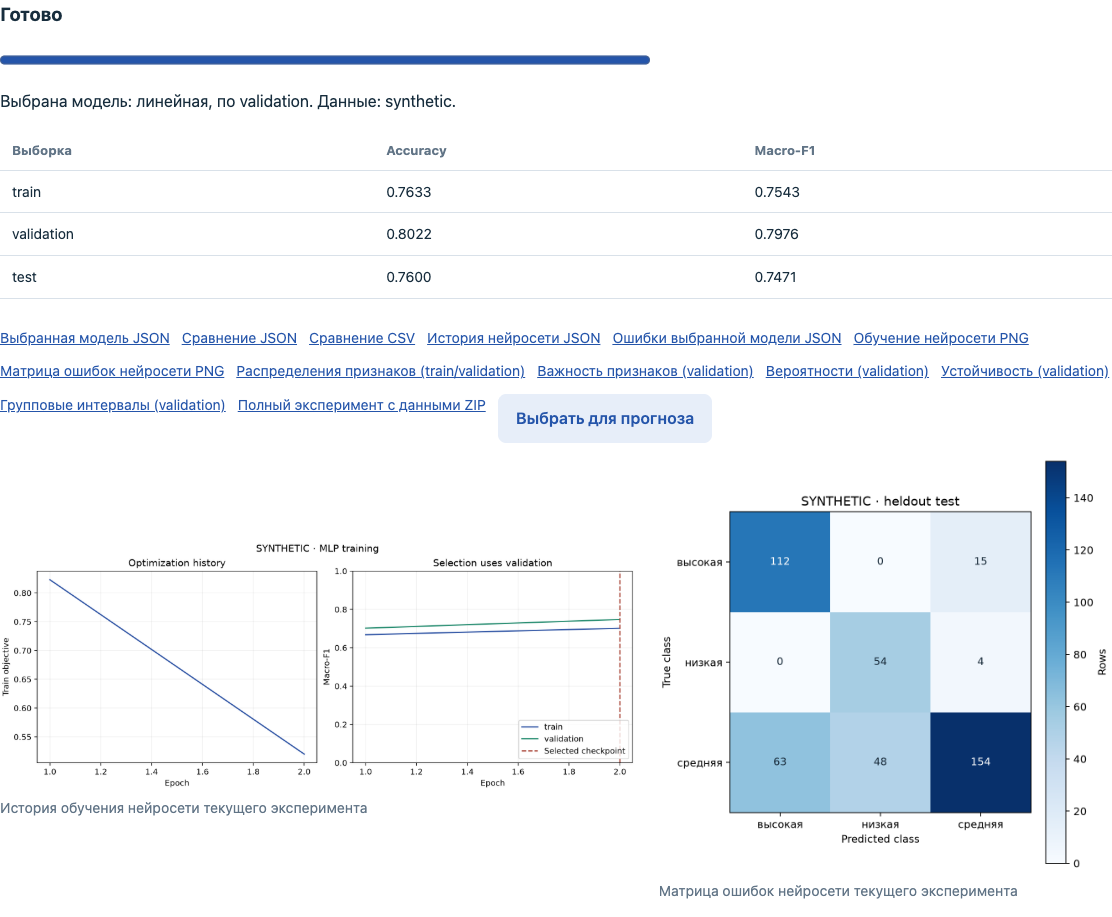
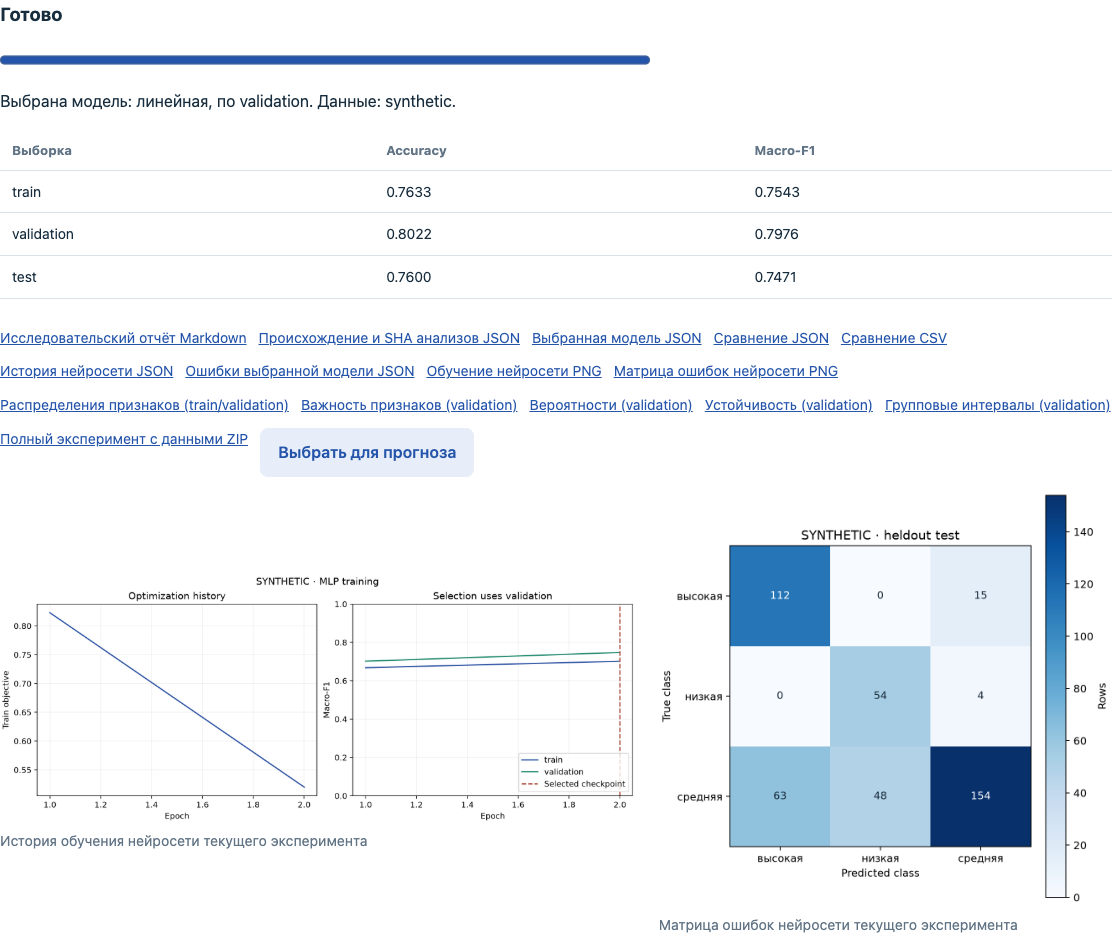
Собирать проверенный исследовательский отчёт из результатов GUI-эксперимента

diff --git a/university_analytics/web/static/app.js b/university_analytics/web/static/app.js
@@ -103,6 +103,7 @@ async function pollJob(id) {
       if (job.state === "failed") throw new Error(job.error);
       const label = {linear: "линейная", dummy: "константная", neural: "нейросеть"}[job.result.selected_model] || job.result.selected_model;
       jobMessage.textContent = `Выбрана модель: ${label}, по validation. Данные: ${job.result.data_origin}.`;
+      if (job.result.research_status === "partial") jobMessage.textContent += " Некоторые анализы недоступны; причины сохранены в отчёте.";
       await showArtifacts(id);
       await refreshJobs();
       const parts = ["train", "validation", "test"];

diff --git a/university_analytics/research_report.py b/university_analytics/research_report.py
@@ -18,7 +18,26 @@ def markdown_text(value):
     return escape(str(value)).replace("\\", "\\\\").replace("|", "\\|").replace("`", "\\`").replace("[", "\\[").replace("]", "\\]").replace("\n", " ").replace("\r", " ")
 
 
-def run_research_report(splits, experiment, destination):
+def existing_analysis(source, name, provenance, destination):
+    path = Path(source)/name/"analysis.json"
+    raw = path.read_bytes()
+    if len(raw) > 8*1024*1024:
+        raise DatasetError("Сохранённый анализ превышает размер пакета.")
+    try:
+        report = json.loads(raw)
+    except (ValueError, UnicodeDecodeError, RecursionError) as exc:
+        raise DatasetError("Повреждён сохранённый анализ.") from exc
+    if not isinstance(report, dict) or any(report.get(key) != value for key,value in provenance.items()):
+        raise DatasetError("Сохранённые анализы относятся к другой модели или данным.")
+    if report.get("status") not in {"completed", "unavailable"}:
+        raise DatasetError("В сохранённом анализе отсутствует допустимый статус.")
+    target = destination/name/"analysis.json"
+    target.parent.mkdir()
+    target.write_bytes(raw)
+    return report
+
+
+def run_research_report(splits, experiment, destination, *, existing_analyses=None):
     destination = Path(destination)
     if destination.exists():
         raise DatasetError("Каталог исследовательского пакета уже существует.")
@@ -31,13 +50,19 @@ def run_research_report(splits, experiment, destination):
             ("probabilities",run_probability_analysis),("robustness",run_robustness),("uncertainty",run_uncertainty)]
         for name, function in steps:
             try:
-                report = function(splits, experiment, temporary/name)
+                report = (function(splits, experiment, temporary/name) if existing_analyses is None
+                    else existing_analysis(existing_analyses, name, provenance, temporary))
             except DatasetError as exc:
+                if existing_analyses is not None:
+                    raise
                 analyses[name] = {"status":"unavailable", "reason":str(exc)}
                 continue
             if any(report.get(key) != value for key,value in provenance.items()):
                 raise DatasetError("Анализы относятся к разным данным или моделям; пакет не сохранён.")
-            analyses[name] = {"status":"completed", "file":f"{name}/analysis.json", "report":report}
+            if report.get("status") == "unavailable":
+                analyses[name] = {"status":"unavailable", "file":f"{name}/analysis.json", "reason":report.get("reason", "Анализ неприменим.")}
+            else:
+                analyses[name] = {"status":"completed", "file":f"{name}/analysis.json", "report":report}
         lines = ["# Диагностика сохранённой модели", "",
             f"Происхождение: {markdown_text(provenance['data_origin'])}. Назначение: {markdown_text(provenance['intended_use'])}.",
             "Симуляционные результаты не оценивают реальных сотрудников. Test не используется для настройки анализов.",
@@ -66,6 +91,7 @@ def run_research_report(splits, experiment, destination):
             lines += ["", markdown_text(report["limitation"]), "", f"Полный результат: [{name}/analysis.json]({name}/analysis.json).", ""]
         (temporary/"research.md").write_text("\n".join(lines)+"\n", encoding="utf-8")
         summary = {**provenance, "schema_version":1,
+            "analysis_source":"recomputed" if existing_analyses is None else "existing_snapshot",
             "status":"completed" if all(item["status"]=="completed" for item in analyses.values()) else "partial",
             "analyses":{name:{key:value for key,value in item.items() if key!="report"} for name,item in analyses.items()}}
         summary["files"] = {str(path.relative_to(temporary)):hashlib.sha256(path.read_bytes()).hexdigest() for path in sorted(temporary.rglob("*")) if path.is_file()}

diff --git a/university_analytics/job_artifacts.py b/university_analytics/job_artifacts.py
@@ -11,7 +11,7 @@ class JobNotReady(RuntimeError):
     pass
 
 
-ARTIFACT_LABELS = {"model.json": "Выбранная модель JSON", "comparison.json": "Сравнение JSON",
+ARTIFACT_LABELS = {"research.md": "Исследовательский отчёт Markdown", "research-manifest.json": "Происхождение и SHA анализов JSON", "model.json": "Выбранная модель JSON", "comparison.json": "Сравнение JSON",
     "comparison.csv": "Сравнение CSV", "history.json": "История нейросети JSON",
     "diagnostics.json": "Ошибки выбранной модели JSON", "training.png": "Обучение нейросети PNG",
     "neural-confusion.png": "Матрица ошибок нейросети PNG", "distribution.json": "Распределения признаков (train/validation)", "importance.json": "Важность признаков (validation)", "probabilities.json": "Вероятности (validation)", "robustness.json": "Устойчивость (validation)", "uncertainty.json": "Групповые интервалы (validation)", "experiment.zip": "Полный эксперимент с данными ZIP"}
@@ -29,7 +29,7 @@ def artifact_path(manager, job_id, owner, name):
     family = state["result"]["selected_family"]
     if family not in {"baseline", "neural"}:
         raise JobNotFound
-    mapping = {"model.json": f"{family}/model.json", "comparison.json": "comparison/comparison.json",
+    mapping = {"research.md": "research/research.md", "research-manifest.json": "research/manifest.json", "model.json": f"{family}/model.json", "comparison.json": "comparison/comparison.json",
         "comparison.csv": "comparison/comparison.csv", "history.json": "neural/training.json",
         "diagnostics.json": "diagnostics-selected/diagnostics.json" if family == "baseline" else "diagnostics-neural/diagnostics.json",
         "distribution.json": "analysis/distribution/analysis.json", "importance.json": "analysis/importance/analysis.json", "probabilities.json": "analysis/probabilities/analysis.json", "robustness.json": "analysis/robustness/analysis.json", "uncertainty.json": "analysis/uncertainty/analysis.json",
@@ -45,7 +45,7 @@ def artifact_path(manager, job_id, owner, name):
 def experiment_archive(manager, job_id, owner):
     directory, state = completed_job(manager, job_id, owner)
     files = [directory/"input.csv", directory/"config.json"]
-    for folder in ["splits", "baseline", "neural", "comparison", "diagnostics-neural", "diagnostics-selected", "figures", "analysis"]:
+    for folder in ["splits", "baseline", "neural", "comparison", "diagnostics-neural", "diagnostics-selected", "figures", "analysis", "research"]:
         files += sorted((directory/folder).rglob("*"))
     output, hashes = io.BytesIO(), {}
     with ZipFile(output, "w", compression=ZIP_DEFLATED) as archive:

diff --git a/tests/test_research_report.py b/tests/test_research_report.py
@@ -29,3 +29,23 @@ class ResearchPackageTests(unittest.TestCase):
                 with self.assertRaises(DatasetError): run_research_report("splits","model",target)
             self.assertFalse(target.exists())
             self.assertEqual(list(Path(folder).iterdir()),[])
+
+    def test_existing_snapshot_is_copied_exactly_without_recomputation(self):
+        import json
+        provenance={"partition":"validation","rows":2,"source_sha256":"a"*64,"split_manifest_sha256":"b"*64,"model_sha256":"c"*64,"data_origin":"synthetic","intended_use":"development_demo_only"}
+        with tempfile.TemporaryDirectory() as folder:
+            root=Path(folder);source=root/'analyses'
+            for name in ['distribution','importance','probabilities','robustness','uncertainty']:
+                path=source/name/'analysis.json';path.parent.mkdir(parents=True)
+                path.write_text(json.dumps({**provenance,'status':'unavailable','reason':'Недостаточно данных <tag>'}))
+            with patch('university_analytics.research_report.validation_context',return_value=(SimpleNamespace(rows=[1,2]),None,None,provenance)), patch('university_analytics.research_report.run_distribution_shift') as calculate:
+                result=run_research_report('splits','model',root/'package',existing_analyses=source)
+                calculate.assert_not_called()
+            self.assertEqual(result['analysis_source'],'existing_snapshot');self.assertEqual(result['status'],'partial')
+            self.assertEqual((root/'package/uncertainty/analysis.json').read_bytes(),(source/'uncertainty/analysis.json').read_bytes())
+            self.assertNotIn('<tag>',(root/'package/research.md').read_text())
+            bad=json.loads((source/'distribution/analysis.json').read_text());bad['model_sha256']='different'
+            (source/'distribution/analysis.json').write_text(json.dumps(bad))
+            with patch('university_analytics.research_report.validation_context',return_value=(SimpleNamespace(rows=[1,2]),None,None,provenance)):
+                with self.assertRaises(DatasetError):run_research_report('splits','model',root/'invalid',existing_analyses=source)
+            self.assertFalse((root/'invalid').exists())

diff --git a/scripts/verify_browser.py b/scripts/verify_browser.py
@@ -85,6 +85,10 @@ def verify(app_python, output):
                     state=context.request.get(url+'/api/jobs/'+job_id).json()
                     assert state['state']=='completed' and state['result']['intended_use']=='development_demo_only'
                     assert len(state['result']['analysis_status'])==5;checks.append('five_validation_analyses')
+                    with page.expect_download() as result:page.get_by_role('link',name='Исследовательский отчёт Markdown',exact=True).click()
+                    markdown=target/'research.md';result.value.save_as(markdown)
+                    assert 'Диагностика сохранённой модели' in markdown.read_text()
+                    checks.append('research_markdown_download')
                     shot('trained-desktop.png','#training-result')
                     with page.expect_download() as result:page.get_by_role('link',name='Полный эксперимент с данными ZIP',exact=True).click()
                     archive=target/'experiment.zip';result.value.save_as(archive)
@@ -92,6 +96,7 @@ def verify(app_python, output):
                         hashes=json.loads(bundle.read('SHA256SUMS.json'))
                         assert all(hashlib.sha256(bundle.read(name)).hexdigest()==value for name,value in hashes.items())
                         assert bundle.read('input.csv')==payload and 'status.json' not in bundle.namelist()
+                        assert bundle.read('analysis/uncertainty/analysis.json')==bundle.read('research/uncertainty/analysis.json')
                     checks.append('downloaded_archive_hashes_and_source')
                     page.get_by_role('button',name='Выбрать для прогноза',exact=True).click()
                     expect(page.locator('#experiment')).to_have_value('job:'+job_id)

diff --git a/tests/test_jobs.py b/tests/test_jobs.py
@@ -44,6 +44,12 @@ class TrainingJobTests(unittest.TestCase):
             self.assertEqual(analysis.json["partition"],"validation")
             self.assertEqual(analysis.json["status"],"completed")
             analysis.close()
+            markdown = client.get("/api/jobs/"+job_id+"/download/research.md")
+            self.assertIn("Диагностика сохранённой модели", markdown.data.decode());markdown.close()
+            manifest = client.get("/api/jobs/"+job_id+"/download/research-manifest.json")
+            self.assertEqual(manifest.json["analysis_source"], "existing_snapshot")
+            self.assertEqual(manifest.json["model_sha256"], analysis.json["model_sha256"])
+            manifest.close()
             model = client.get("/api/jobs/"+job_id+"/download/model.json")
             self.assertIn("config", json.loads(model.data));model.close()
             archive = client.get("/api/jobs/"+job_id+"/download/experiment.zip")
@@ -52,6 +58,8 @@ class TrainingJobTests(unittest.TestCase):
                 self.assertNotIn("status.json", bundle.namelist())
                 self.assertIn("SHA256SUMS.json", bundle.namelist())
                 self.assertIn("analysis/uncertainty/analysis.json", bundle.namelist())
+                self.assertIn("research/research.md", bundle.namelist())
+                self.assertEqual(bundle.read("analysis/uncertainty/analysis.json"), bundle.read("research/uncertainty/analysis.json"))
             archive.close()
             self.assertEqual(client.get("/api/jobs/"+job_id+"/download/status.json").status_code, 404)
             self.assertEqual(len(client.get("/api/jobs").json["jobs"]), 1)

diff --git a/university_analytics/jobs.py b/university_analytics/jobs.py
@@ -11,6 +11,7 @@ from concurrent.futures import ThreadPoolExecutor
 from pathlib import Path
 from datetime import datetime, timezone
 from .analysis_suite import run_analysis_suite
+from .research_report import run_research_report
 from .baselines import run_baseline_experiment
 from .comparison import run_comparison
 from .data import Dataset, DatasetError, load_dataset
@@ -64,9 +65,11 @@ def run_job(directory, dataset, config, epochs):
         export_plots(directory/"neural", directory/"diagnostics-neural", directory/"figures")
         stage("Анализ validation выбранной модели", 95)
         analyses = run_analysis_suite(directory/"splits", directory/family, directory/"analysis")
+        package = run_research_report(directory/"splits", directory/family, directory/"research",
+            existing_analyses=directory/"analysis")
         state.update(state="completed", stage="Готово", progress=100,
             completed_at=datetime.now(timezone.utc).isoformat(), result={"selected_family": family,
-                "selected_model": selected["model"], "analysis_status": analyses, "metrics": selected["metrics"], "rows": comparison["rows"],
+                "selected_model": selected["model"], "analysis_status": analyses, "research_status": package["status"], "metrics": selected["metrics"], "rows": comparison["rows"],
                 "data_origin": comparison["data_origin"], "intended_use": comparison["intended_use"]})
         write_state(directory, state)
     except Exception as exc:

diff --git a/university_analytics/gui.py b/university_analytics/gui.py
@@ -237,7 +237,8 @@ def create_app(repository=None):
         directory, state = completed_job(manager, job_id, session.get("workspace_id", ""))
         comparison = json.loads((directory/"comparison/comparison.json").read_text(encoding="utf-8"))
         return jsonify(selected=state["result"], comparison=comparison,
-            files=[{"name": name, "label": label} for name, label in ARTIFACT_LABELS.items()])
+            files=[{"name": name, "label": label} for name, label in ARTIFACT_LABELS.items()
+                if not name.startswith("research") or state["result"].get("research_status")])
 
     @app.get("/api/jobs/<job_id>/download/<name>")
     def job_download(job_id, name):

diff --git a/docs/ACCEPTANCE.md b/docs/ACCEPTANCE.md
@@ -10,4 +10,6 @@
 
 Скрипт делает временную копию отслеживаемого комплекта. Реальный локальный HTTP-источник отдаёт3000 симуляционных строк; формы GUI получают профиль и прогноз, сохраняют CSV с флагами просмотра. Затем настоящий фоновый worker обучает baseline и двеDL-настройки, выполняет пятьvalidation-анализов, отдаёт ZIP с проверяемымиSHA и применяет выбранную модель. Другая браузерная сессия получает404 на чужой эксперимент. Для быстрого браузерного испытания выбраны две эпохи: это не повтор полного исследовательского обучения.
 
-Chrome157 прошёл девять проверок, desktop1440/mobile390. Исправлен выход таблицы прогноза за границы мобильной сетки; метрики/результаты прокручиваются внутри доступных с клавиатуры блоков. Шесть снимков reports/local-visual-v1 просмотрены. Временные браузер, HTTP-источник, сервер и данные удаляются; пользовательские модели/сессии не затрагиваются. Это один браузер и симуляция, не полный аудит доступности или валидности оценки реальных людей.
+Chrome157 прошёл десять проверок, desktop1440/mobile390. Исправлен выход таблицы прогноза за границы мобильной сетки; метрики/результаты прокручиваются внутри доступных с клавиатуры блоков. Шесть снимков reports/local-visual-v1 просмотрены. Временные браузер, HTTP-источник, сервер и данные удаляются; пользовательские модели/сессии не затрагиваются. Это один браузер и симуляция, не полный аудит доступности или валидности оценки реальных людей.
+
+GUI-пакет Markdown/manifest и точное совпадение сохранённых JSON также проверены скачиванием вChrome; обновлённые области результатов просмотрены.

diff --git a/docs/RESEARCH_PACKAGE.md b/docs/RESEARCH_PACKAGE.md
@@ -1,0 +1,9 @@
+# Исследовательский пакет эксперимента
+
+После нового GUI-обучения доступны «Исследовательский отчёт Markdown» и «Происхождение и SHA анализов JSON». Оба входят в полный ZIP. Пакет создаётся из уже рассчитанных пяти validation-анализов выбранного семейства: повторного обучения, подбора по test или пересчёта bootstrap не происходит.
+
+Перед сборкой повторно проверяются модель, контракт и split. Каждый сохранённый JSON обязан иметь совпадающие model/source/split SHA и допустимый статус. Исходные байты анализов копируются без изменения; manifest содержит их SHA. При расхождении происхождения пакет не публикуется частично, эксперимент получает отказ. Недоступный по предметной причине анализ сохраняет status=unavailable, исходный JSON и причину; итоговый пакет partial, это показано в GUI. Повреждённый JSON не выдаётся за неприменимый анализ.
+
+analysis_source=existing_snapshot отличает GUI-снимок от CLI research-report, который по умолчанию заново рассчитывает анализы с собственными параметрами. Поэтому число повторов берётся из конкретного JSON, а не предполагается одинаковым. Для ранее созданных GUI-экспериментов, где пакета не было, новые ссылки не предлагаются.
+
+Выдача сохраняет проверку браузерной сессии; ZIP содержит личный входной CSV, но не служебный идентификатор владельца. Markdown экранирует пользовательский текст и сохраняет ограничения интерпретации. Симуляционный пакет не является исследованием реальных сотрудников.

diff --git a/docs/PROGRESS.md b/docs/PROGRESS.md
@@ -109,3 +109,5 @@ Notebook теперь заново вычисляет все пять анали
 GUI принимает один источник CSV: файл или HTTP/HTTPS-ссылку для профиля/прогноза/обучения. Схемы/учётные данные/фрагменты/порты проверяются, общие20МиБ/таймаут/UTF-8 сохраняются, технические ошибки не раскрываются. Два новых сценария используют настоящий локальныйHTTP-источник и проверяют передачу скачанных байтов на границе очереди, CSRF и неверные адреса. Все75 тестов прошли. История: 30 общих, 29 после основы, остаток — 21.
 
 Настоящий Chrome157 прошёл HTTP-загрузку3000 строк, профиль, прогноз/CSV, фоновое обучение двухDL-настроек, пятьанализов, ZIP/SHA и применение выбранной модели. Чужая сессия получает404. Исправлена мобильная сетка результатов;1440/390px, все шесть снимков просмотрены. Две эпохи браузерного smoke не заменяют полный сохранённый эксперимент. История: 31 общих, 30 после основы, остаток — 20.
+
+GUI теперь отдаёт единый Markdown-отчёт и SHA-манифест пяти уже рассчитанных validation-анализов. Байты/число повторов не меняются, происхождение повторно проверяется; partial/unavailable явно сохранены. Старым заданиям без пакета ссылки не предлагаются. Интеграция проверяет скачивание и точное совпадение JSON вZIP, отдельный сценарий доказывает отказ при смешанном происхождении без пересчёта. Все76 тестов и10Chrome-проверок прошли; изменённые desktop/mobile-области просмотрены. История: 32 общих, 31 после основы, остаток — 19.
